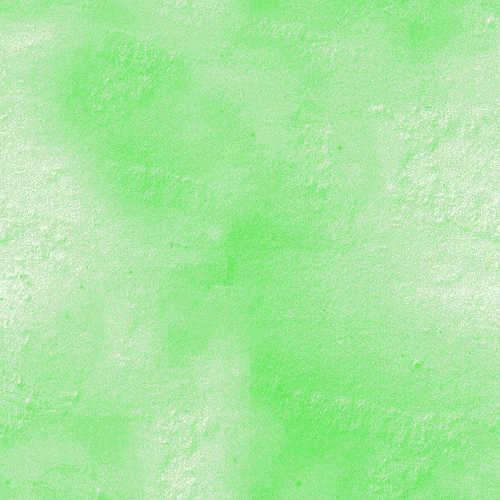
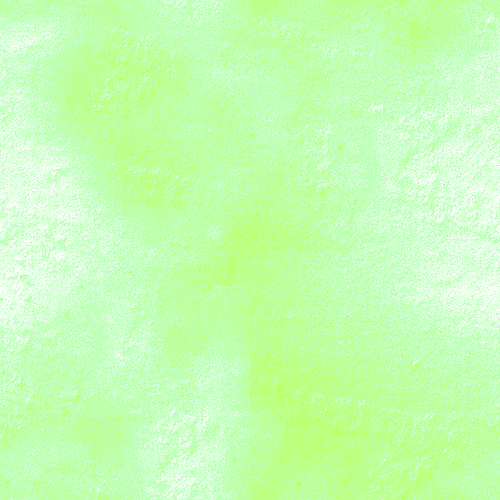
Ajout nouscontacter.html, modif de background, ajout link to open street map Maison des jeunes

diff --git a/nouscontacter.html b/nouscontacter.html
@@ -1,0 +1,44 @@
+<!DOCTYPE html>
+<html>
+	<head>
+    
+    <meta charset="utf-8">
+		<meta http-equiv="content-type" content="text/html; charset=utf-8" />
+		<link href="css/bootstrap.css" rel="stylesheet">
+		<link type="text/css" rel="stylesheet" href="css/stylesheetvivien.css"/>
+        <link href='http://fonts.googleapis.com/css?family=Chewy' rel='stylesheet' type='text/css'>
+
+
+
+    </head>
+    		<h2> Informations pratiques </h2>
+    <body>
+    		<div class="col-md-4">
+    			<!--centé et gras-->PÔLE ADMINISTRATIF
+				Rue Jean Moulin, 28240 La Loupe<!---->
+				Du Mardi au Vendredi : 9h00 à 12h00 et 13h30 à 18h00
+				<!--en italique--><span>Permanences téléphoniques les lundis de 9h00 à 12h00 et de 13h30 à 17h00</span>
+				02 37 29 94 47 mail : <!--mailto="-->lescontratsbleus@wanadoo.fr
+			</div>
+    		<div class="col-md-4">
+    			<!--en gras et centré--><h4>Pôle Petite Enfance</h4>
+<!--en gras et centré-->3 rue Henri Dunant, 28240 La Loupe
+<!--en gras--><p>LA MAISON DES P’TITS Loups
+Du Lundi au Vendredi de 7h30 à 18h15
+02 37 29 45 68 - mail : lescontratsbleus.creche@orange.fr</p>
+<!--en gras--><p>LA COCCINELLE
+Les mardis de 9h00 à 11h15 et les jeudis de 13h30 à 16h00
+02 37 29 94 47 - mail : lescontratsbleus@orange.fr</p>
+<!--en gras--><p>RELAIS D’ASSISTANTS MATERNELS
+Les mardis de 16h à 19h et les mercredis de 9h00 à 12h00</p>
+<h4>PÔLE ENFANCE, JEUNESSE</h4>
+02 37 29 94 47 - mail : lescontratsbleus@orange.fr
+			</div>
+    		<div class="col-md-4">
+    	  <div class="raw">
+    	  	<div class="col-md-4">
+    	  	<div class="col-md-4">
+    	  	<div class="col-md-4">
+    </body>
+
+</html>

diff --git a/css/stylesheetvivien.css b/css/stylesheetvivien.css
@@ -5,7 +5,7 @@ h1 {
 	font-family: 'Chewy', cursive;
 	font-size: 70px;
 	text-align: center;
-    color: rgba(72, 114, 240, 1);
+    color: rgba(72, 114, 240, 0.6);
     margin-top: -35px;
 
 
@@ -22,7 +22,7 @@ head {
 }
 
 body {
-    background-image: url(../img/background_snow.png);
+    background-image: url(../img/background.png);
 
 }
 
@@ -54,7 +54,7 @@ img {
 #volet , #volet_1 , #volet_2{
     width: 93%;
     padding: 10px;
-    background: rgba(28, 207, 36, 0.2); color: #fff; 
+    background: rgba(28, 207, 36, 0.9); color: #fff; 
     margin-top: 1%  
 }
 

diff --git a/indexvivien.html b/indexvivien.html
@@ -25,7 +25,7 @@
          <div class="navbar-inner">
           <div class="container">
             <div class="col-md-4">
-              <span class="icon-bar">Localisation</span>
+              <span class="icon-bar"><a href="https://www.openstreetmap.org/#map=19/48.47003/1.01499">Localisation</a></span>
             </div>
             <div class="col-md-4">
               <span class="icon-bar">About us</span>
